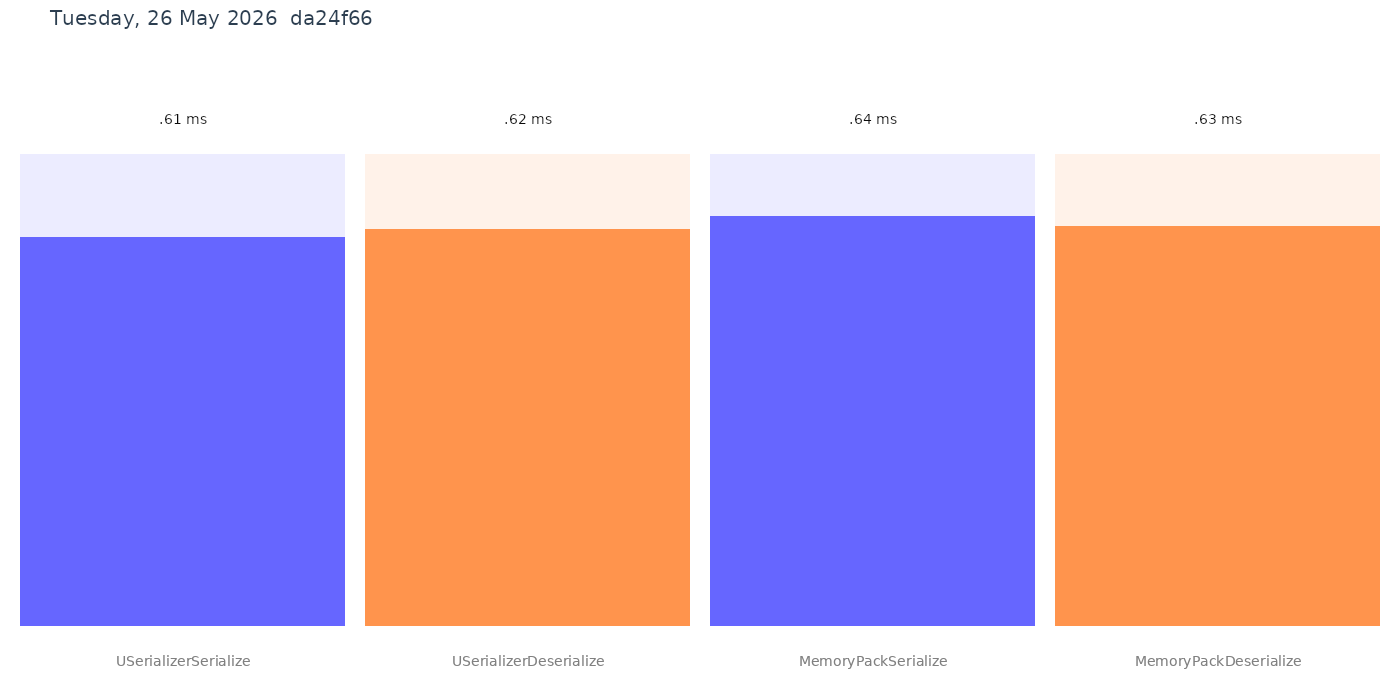
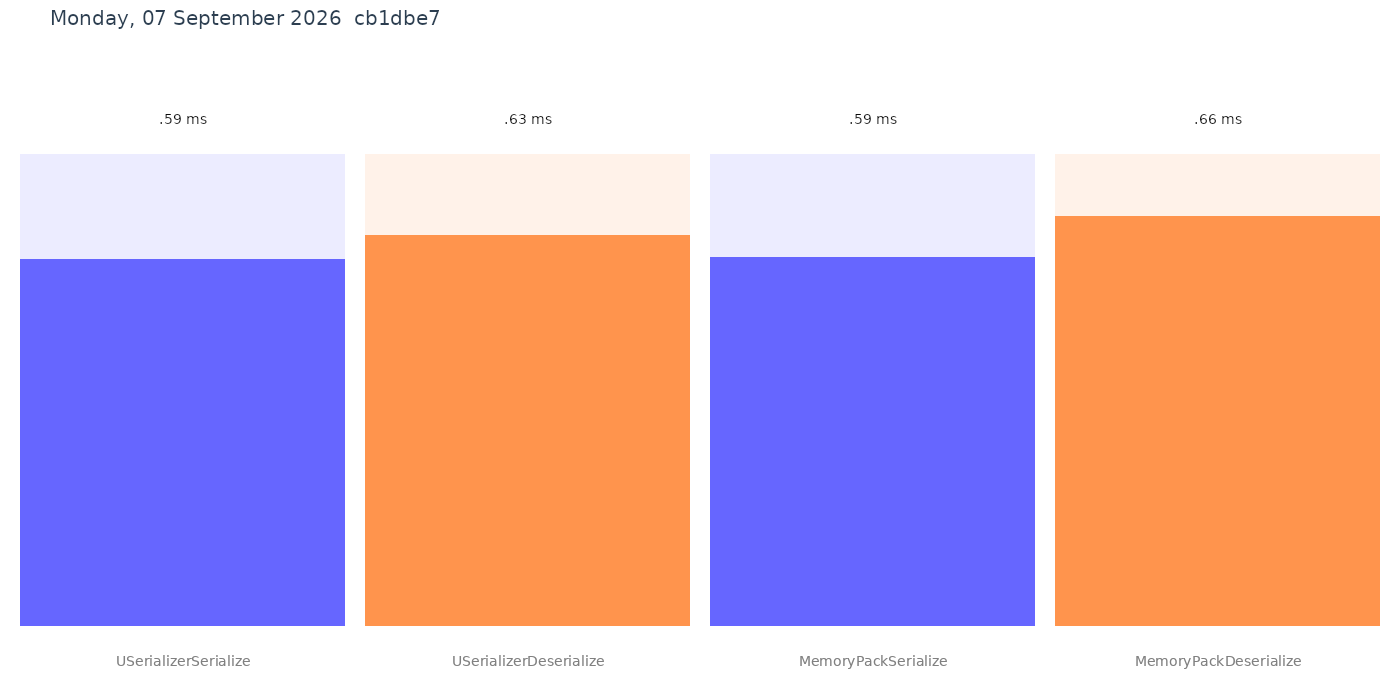
deploy: cb1dbe7bb60b01ee16c2d02699ea0d3b7c4e6051

Changed region(s): [[0.0, 0.3, 0.9829, 0.39], [0.0307, 0.0, 0.3071, 0.06]]

diff --git a/performance.md b/performance.md
@@ -2,17 +2,17 @@
 
 BenchmarkDotNet=v0.12.1, OS=ubuntu 24.04
 AMD EPYC 7763, 1 CPU, 4 logical and 2 physical cores
-.NET Core SDK=10.0.300
-  [Host]   : .NET Core 10.0.8 (CoreCLR 10.0.826.23019, CoreFX 10.0.826.23019), X64 RyuJIT
-  ShortRun : .NET Core 10.0.8 (CoreCLR 10.0.826.23019, CoreFX 10.0.826.23019), X64 RyuJIT
+.NET Core SDK=10.0.400
+  [Host]   : .NET Core 10.0.11 (CoreCLR 10.0.1126.37416, CoreFX 10.0.1126.37416), X64 RyuJIT
+  ShortRun : .NET Core 10.0.11 (CoreCLR 10.0.1126.37416, CoreFX 10.0.1126.37416), X64 RyuJIT
 
 Job=ShortRun  IterationCount=3  LaunchCount=1  
 WarmupCount=3  
 
 ```
-|                 Method |     Mean |     Error |   StdDev |
-|----------------------- |---------:|----------:|---------:|
-|   USerializerSerialize | 609.5 μs |  24.55 μs |  1.35 μs |
-| USerializerDeserialize | 621.0 μs | 191.27 μs | 10.48 μs |
-|    MemoryPackSerialize | 642.3 μs | 181.65 μs |  9.96 μs |
-|  MemoryPackDeserialize | 626.6 μs | 102.67 μs |  5.63 μs |
+|                 Method |     Mean |       Error |   StdDev |
+|----------------------- |---------:|------------:|---------:|
+|   USerializerSerialize | 590.5 μs |     9.79 μs |  0.54 μs |
+| USerializerDeserialize | 630.1 μs |    28.95 μs |  1.59 μs |
+|    MemoryPackSerialize | 594.3 μs | 1,118.90 μs | 61.33 μs |
+|  MemoryPackDeserialize | 661.2 μs |    41.01 μs |  2.25 μs |
